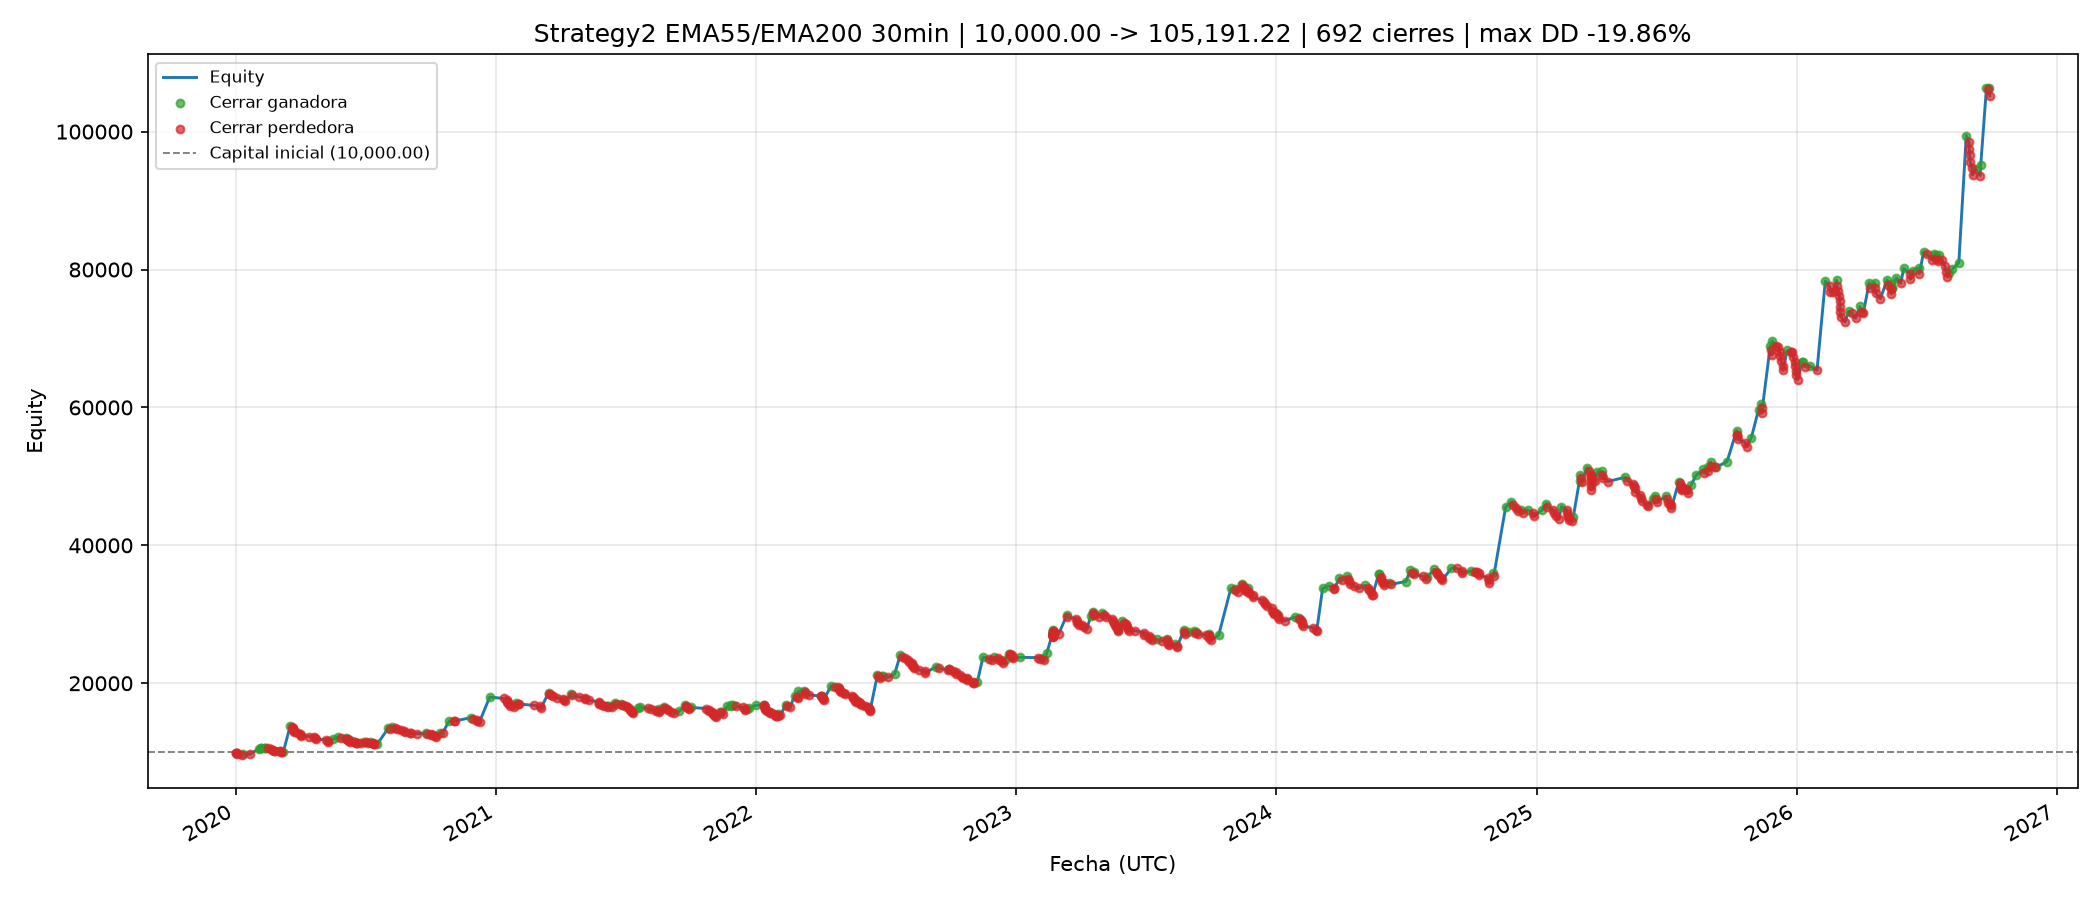
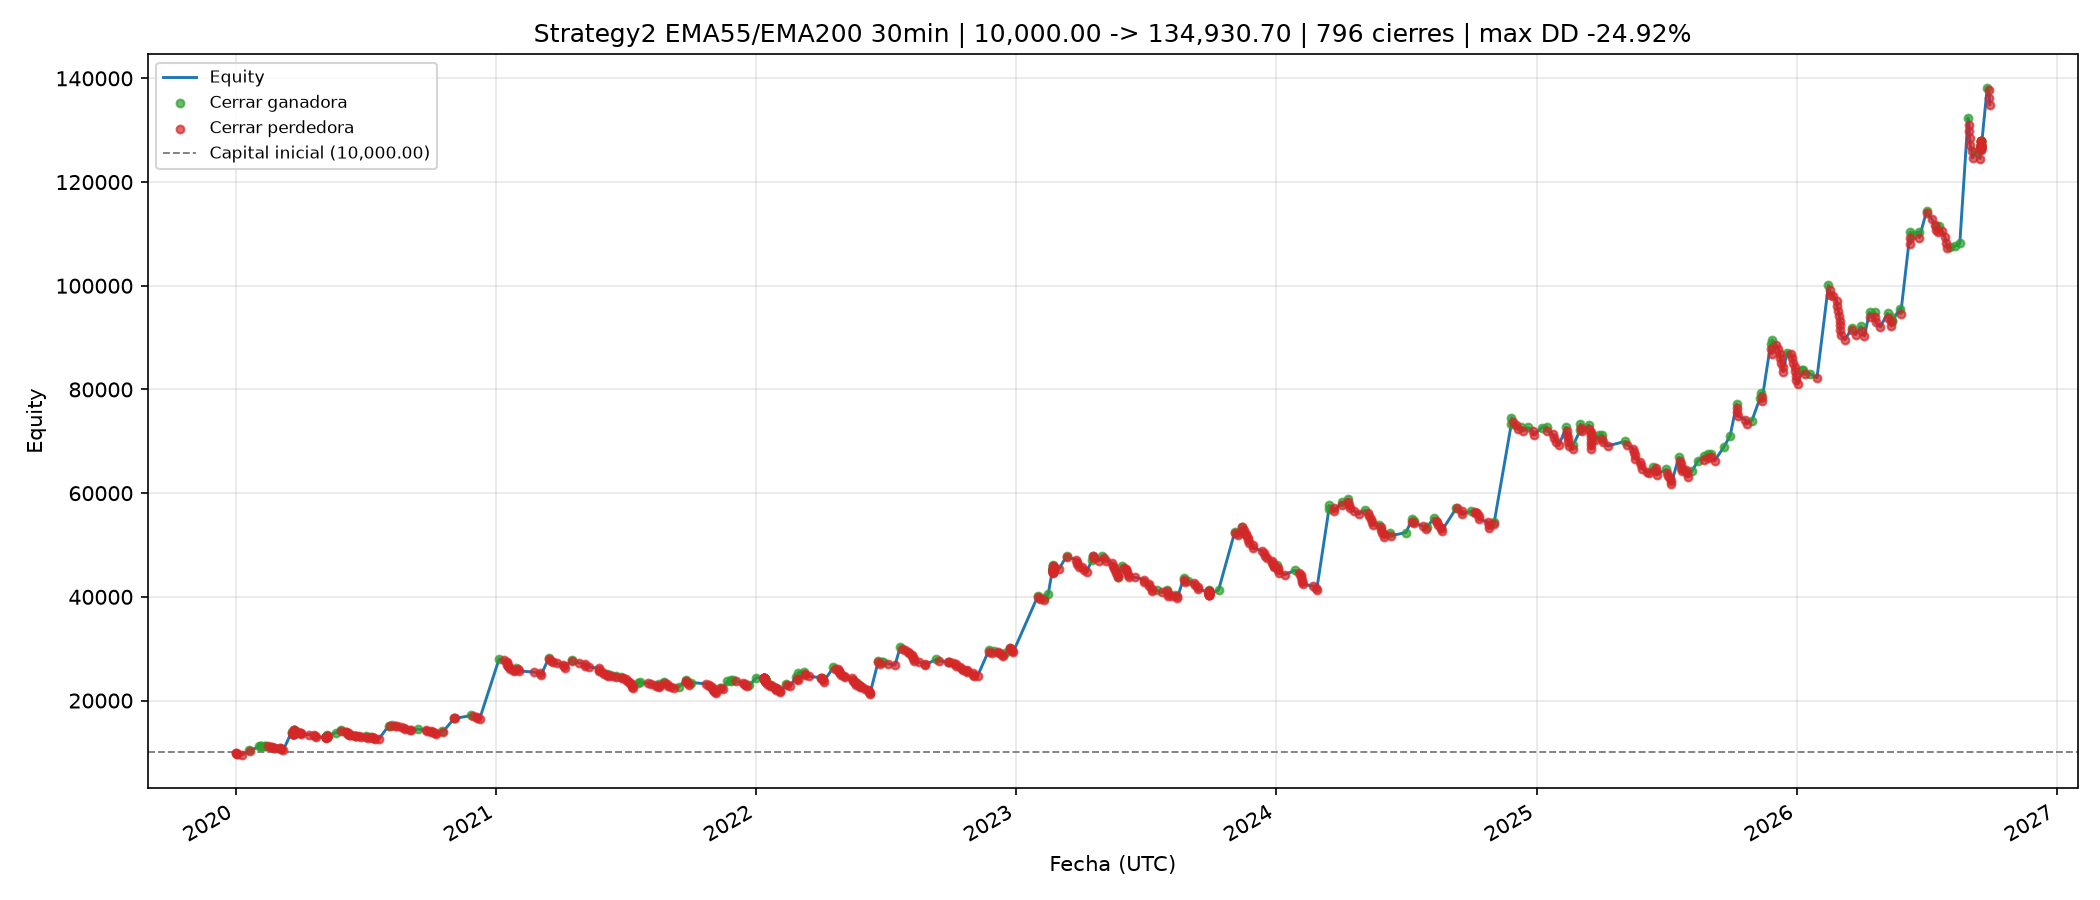
UPDATE

diff --git a/backend/services/backtest/bin/legacy/strategy/strategy2.py b/backend/services/backtest/bin/legacy/strategy/strategy2.py
@@ -115,8 +115,8 @@ class Config:
     # calculan en ese timeframe y la señal se alinea a las velas de
     # la estrategia.
     ema_weakening_exit_enabled: bool = True
-    ema_weakening_timeframe: str = "20min"
-    ema_weakening_gap_pct: float = 0.002
+    ema_weakening_timeframe: str = "1D"
+    ema_weakening_gap_pct: float = 0.001
     ema_weakening_exit_pct: float = 100.0
 
     # Entrada temprana (inverso del debilitamiento): cuando el gap
